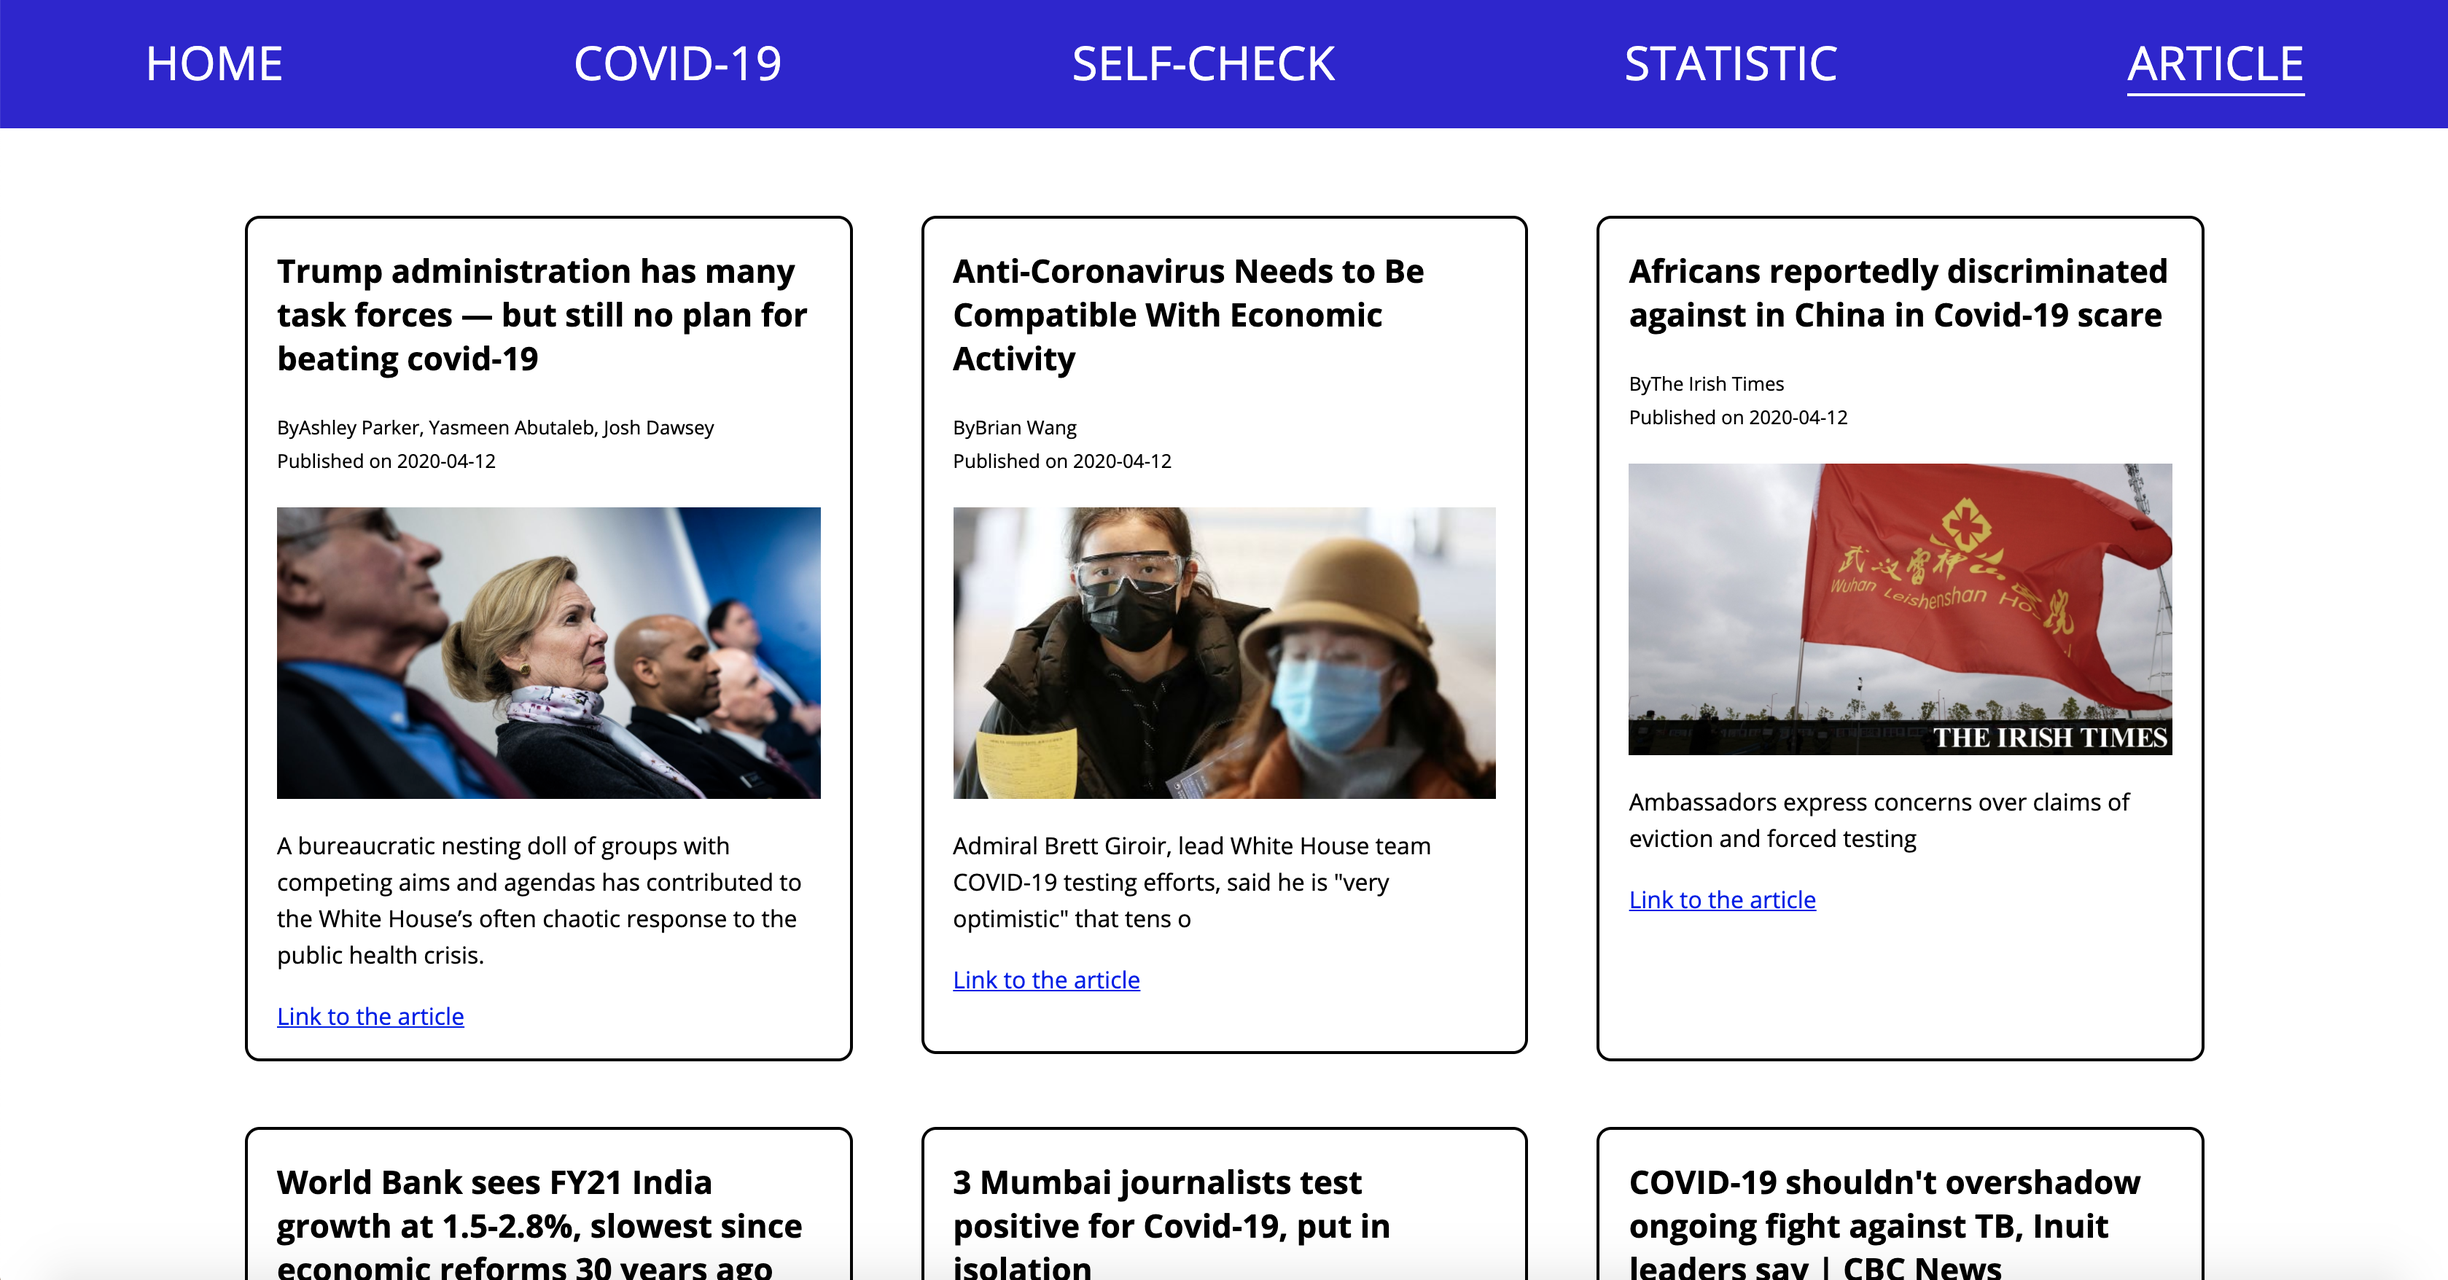
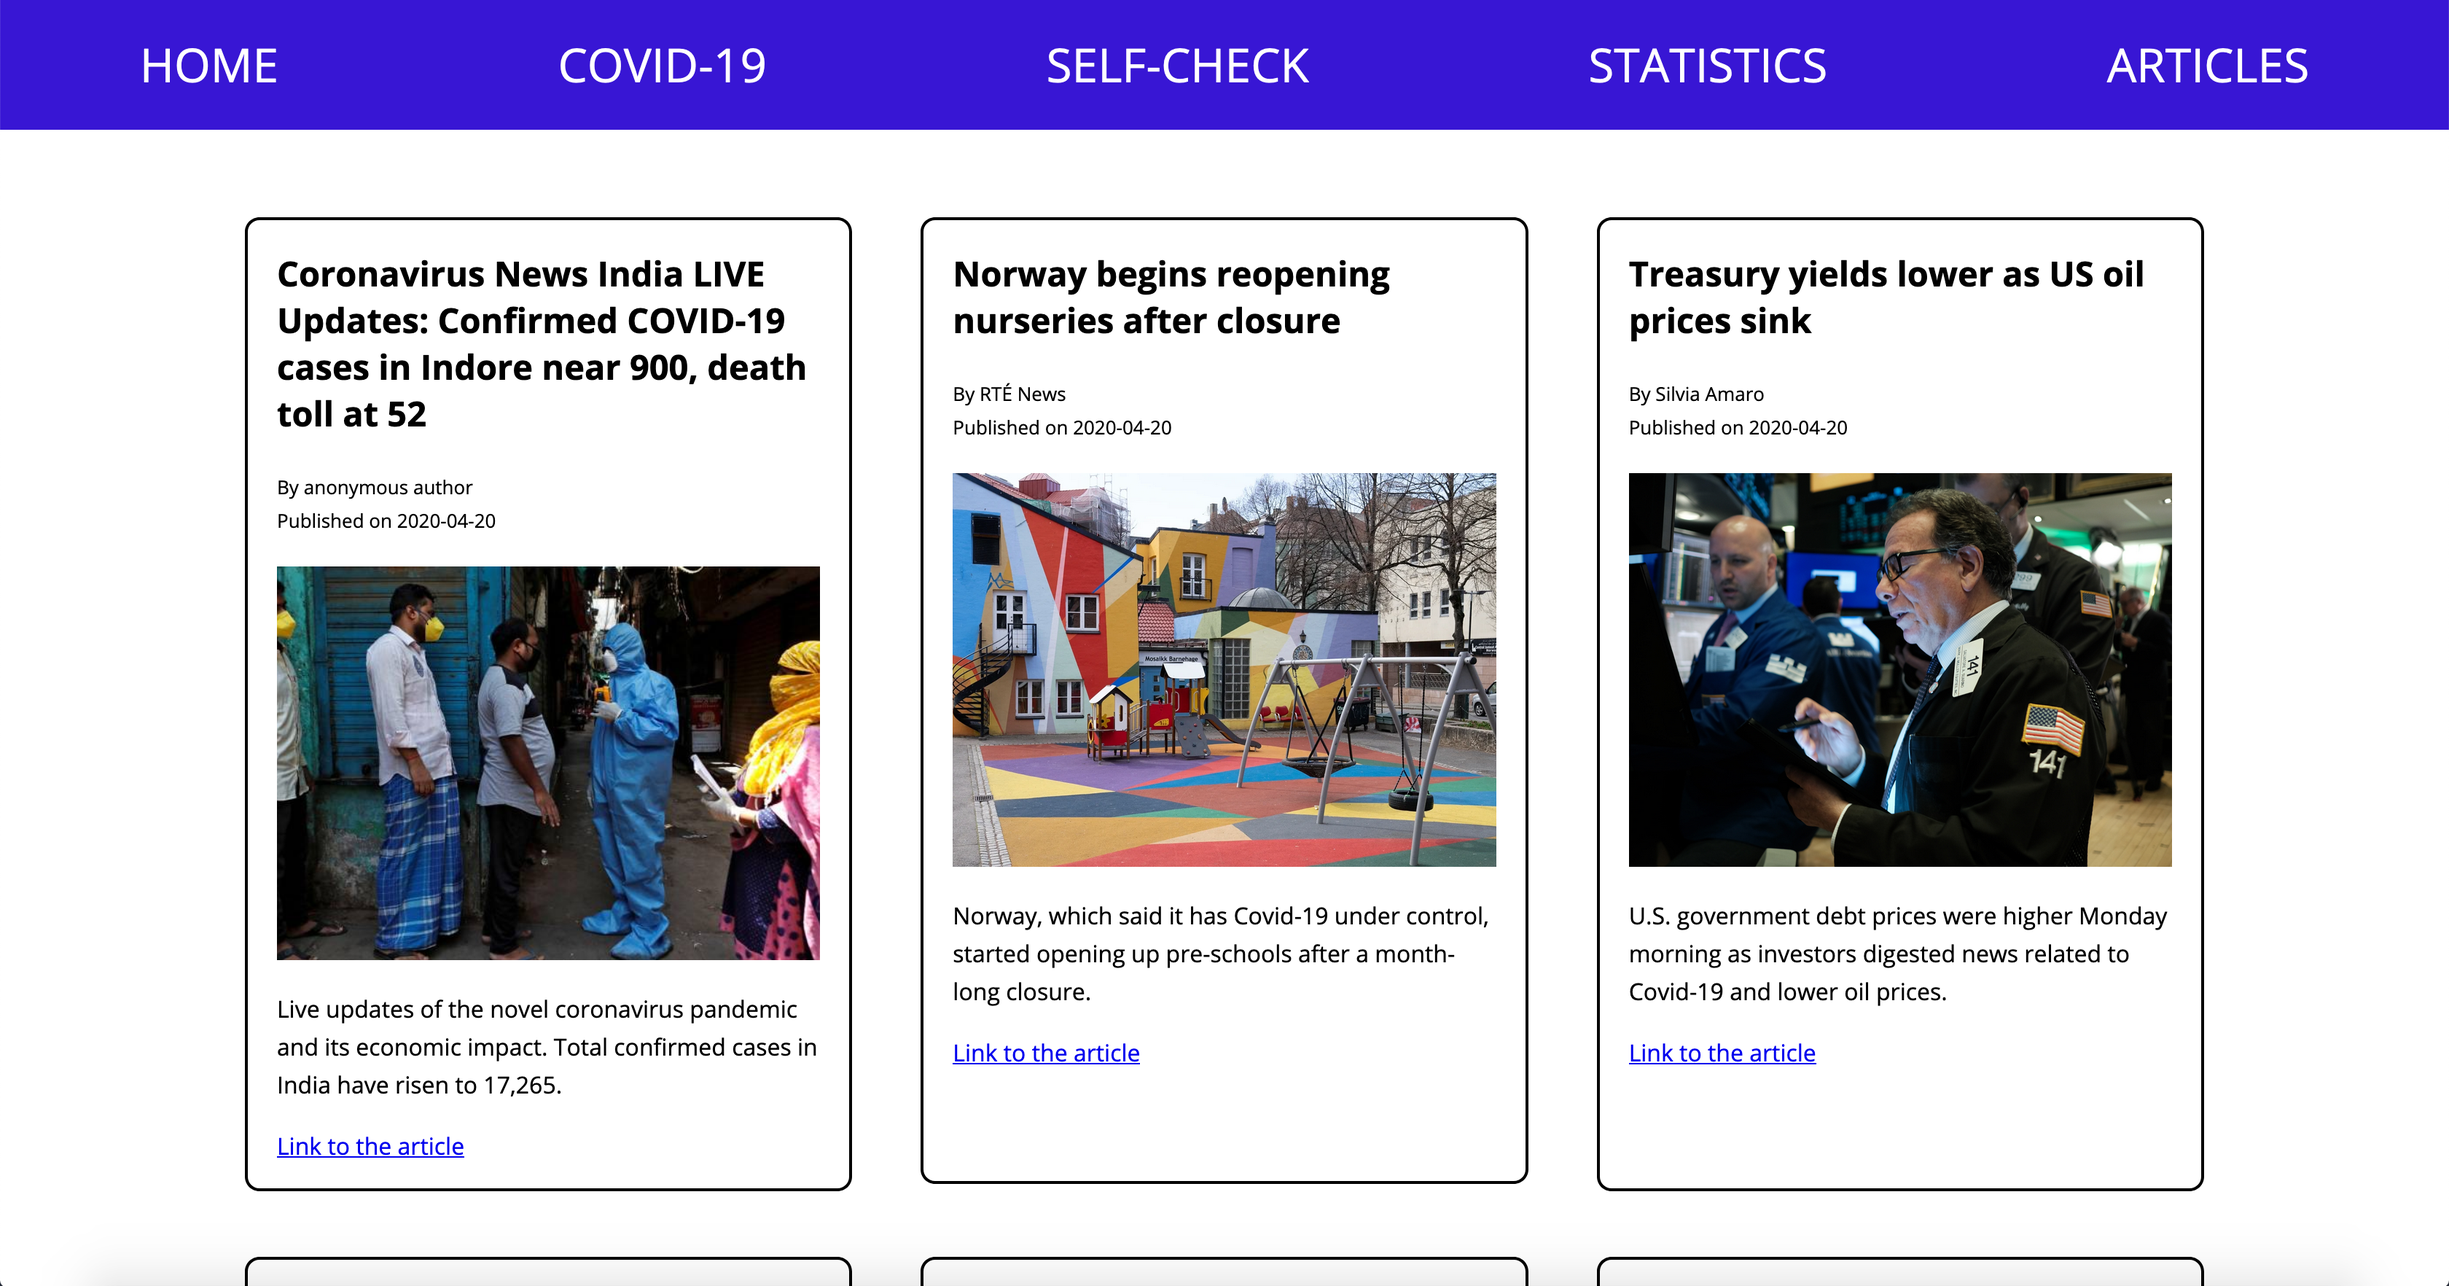
news article api updated and readme images changed

diff --git a/src/components/contents/Statistics.js b/src/components/contents/Statistics.js
@@ -1,4 +1,6 @@
 import React, { Component } from 'react';
+import Status from './Status';
+import SearchedCountry from './SearchedCountry';
 
 class Statistic extends Component {
     constructor() {
@@ -7,6 +9,7 @@ class Statistic extends Component {
         this.state = {
             searchedCountry: [],
         };
+
         this.searchInput = React.createRef();
     }
 
@@ -40,19 +43,10 @@ class Statistic extends Component {
     render() { 
         return ( 
             <div className='statistics'>
-                <h2 className='date'>As of {this.props.currentDate}</h2>
-                
-                <ul className='currentStatusList'>
-                    <li>Affected countries: {this.addCommas(this.props.currentStatistics.length)}</li>
-
-                    <li>Total cases: {this.addCommas(this.props.currentStatus.TotalConfirmed)}</li>
-
-                    <li>Total recovered: {this.addCommas(this.props.currentStatus.TotalRecovered)}</li>
-
-                    <li>Total deaths: {this.addCommas(this.props.currentStatus.TotalDeaths)}</li>
-                    
-                    <li>Death toll: {this.props.currentStatus.TotalConfirmed ? (100 / (this.props.currentStatus.TotalConfirmed / this.props.currentStatus.TotalDeaths)).toFixed(2) : 0}%</li>
-                </ul>
+                <Status 
+                    currentDate={this.props.currentDate}
+                    currentStatus={this.props.currentStatus}
+                />
 
                 <div className='searchFormContainer'>
                     <form onSubmit={this.searchCountry}>
@@ -76,6 +70,8 @@ class Statistic extends Component {
 
                             <th>Recovered</th>
 
+                            <th>Recovery toll</th>
+
                             <th>Deaths</th>
 
                             <th>Death toll</th>
@@ -83,47 +79,9 @@ class Statistic extends Component {
                     </thead>
 
                     <tbody>
-                        {this.state.searchedCountry.map((country, i) => {
-                            return (
-                                <tr key={i}>
-                                    <td className='searchedCountry'>* {country.Country}</td>
-
-                                    <td className='totalCases'>
-                                        <span>
-                                            {this.addCommas(country.TotalConfirmed)}
-                                        </span>
-
-                                        {country.NewConfirmed > 0 
-                                        ?
-                                            <span>
-                                                <span className='arrow'></span>
-
-                                                {this.addCommas(country.NewConfirmed)}
-                                            </span>
-                                        :null}
-                                    </td>
-
-                                    <td>{this.addCommas(country.TotalRecovered)}</td>
-
-                                    <td className='totalDeaths'>
-                                        <span>
-                                            {this.addCommas(country.TotalDeaths)}
-                                        </span>
-                                        
-                                        {country.NewDeaths > 0 
-                                        ?
-                                            <span>
-                                                <span className='arrow'></span>
-
-                                                {this.addCommas(country.NewDeaths)}
-                                            </span>
-                                        :null}
-                                    </td>
-
-                                    <td>{(100 / (country.TotalConfirmed / country.TotalDeaths)).toFixed(2)}%</td>
-                                </tr>
-                            )
-                        })}
+                        <SearchedCountry 
+                            searchedCountry={this.state.searchedCountry}
+                        />
 
                         {this.props.currentStatistics.map((status, i) => {
                             return (
@@ -162,6 +120,15 @@ class Statistic extends Component {
                                         : null}
                                     </td>
 
+                                    <td>
+                                        {status.TotalRecovered > 0
+                                        ?
+                                        <span>
+                                            {(100 / (status.TotalConfirmed / status.TotalRecovered)).toFixed(2)}%
+                                        </span>
+                                        : 0}
+                                    </td>
+
                                     <td className='totalDeaths'>
                                         <span>
                                             {this.addCommas(status.TotalDeaths)}
@@ -176,10 +143,17 @@ class Statistic extends Component {
                                                 {this.addCommas(status.NewDeaths)}
                                             </span>
                                         </span>
-                                        :null}
+                                        : null}
                                     </td>
 
-                                    <td>{(100 / (status.TotalConfirmed / status.TotalDeaths)).toFixed(2)}%</td>
+                                    <td>
+                                        {status.TotalDeaths > 0
+                                        ? 
+                                        <span>
+                                            {(100 / (status.TotalConfirmed / status.TotalDeaths)).toFixed(2)}%
+                                        </span>
+                                        : 0}
+                                    </td>
                                 </tr>
                             )
                         })}

diff --git a/src/components/contents/SearchedCountry.js b/src/components/contents/SearchedCountry.js
@@ -1,0 +1,86 @@
+import React from 'react';
+
+const SearchedCountry = props => {
+    // To add commas to number
+    const addCommas = num => {
+        return `${typeof num === 'number' ? num.toString().replace(/\B(?=(\d{3})+(?!\d))/g, ',') : 0}`
+    }
+
+
+    return (
+        <React.Fragment>
+            {props.searchedCountry.map((country, i) => {
+                return (
+                    <tr key={i}>
+                        <td className='searchedCountry'>* {country.Country}</td>
+
+                        <td className='totalCases'>
+                            <span>
+                                {addCommas(country.TotalConfirmed)}
+                            </span>
+
+                            {country.NewConfirmed > 0
+                                ?
+                                <span>
+                                    <span className='arrow'></span>
+
+                                    {addCommas(country.NewConfirmed)}
+                                </span>
+                                : null}
+                        </td>
+
+                        <td className='totalRecovered'>
+                            <span>
+                                {addCommas(country.TotalRecovered)}
+                            </span>
+
+                            {country.NewRecovered > 0
+                                ?
+                                <span>
+                                    <span className='arrow'></span>
+
+                                    {addCommas(country.NewRecovered)}
+                                </span>
+                                : null}
+                        </td>
+
+                        <td>
+                            {country.TotalRecovered > 0
+                                ?
+                                <span>
+                                    {(100 / (country.TotalConfirmed / country.TotalRecovered)).toFixed(2)}%
+                                        </span>
+                                : '0%'}
+                        </td>
+
+                        <td className='totalDeaths'>
+                            <span>
+                                {addCommas(country.TotalDeaths)}
+                            </span>
+
+                            {country.NewDeaths > 0
+                                ?
+                                <span>
+                                    <span className='arrow'></span>
+
+                                    {addCommas(country.NewDeaths)}
+                                </span>
+                                : null}
+                        </td>
+
+                        <td>
+                            {country.TotalDeaths > 0
+                                ?
+                                <span>
+                                    {(100 / (country.TotalConfirmed / country.TotalDeaths)).toFixed(2)}%
+                                        </span>
+                                : '0%'}
+                        </td>
+                    </tr>
+                )
+            })}
+        </React.Fragment>
+    )
+}
+
+export default SearchedCountry;

diff --git a/src/components/contents/Status.js b/src/components/contents/Status.js
@@ -1,0 +1,34 @@
+import React from 'react';
+
+const Status = props => {
+    // To add commas to number
+    const addCommas = num => {
+        return `${typeof num === 'number' ? num.toString().replace(/\B(?=(\d{3})+(?!\d))/g, ',') : 0}`
+    }
+
+    return (
+        <div>
+            <h2 className='date'>As of {props.currentDate}</h2>
+
+            <ul className='currentStatusList'>
+                <li>Total cases: {addCommas(props.currentStatus.TotalConfirmed)}</li>
+
+                <li>Total recovered: {addCommas(props.currentStatus.TotalRecovered)}</li>
+
+                <li>Recovery rate: {props.currentStatus.TotalRecovered > 0
+                    ?
+                    <span>
+                        {(100 / (props.currentStatus.TotalConfirmed / props.currentStatus.TotalRecovered)).toFixed(2)}%
+                        </span>
+                    : 0}
+                </li>
+
+                <li>Total deaths: {addCommas(props.currentStatus.TotalDeaths)}</li>
+
+                <li>Death rate: {props.currentStatus.TotalConfirmed ? (100 / (props.currentStatus.TotalConfirmed / props.currentStatus.TotalDeaths)).toFixed(2) : 0}%</li>
+            </ul>
+        </div>
+    )
+}
+
+export default Status;

diff --git a/src/components/Header.js b/src/components/Header.js
@@ -1,30 +1,15 @@
 import React from 'react';
+import Status from './contents/Status';
 
 const Header = props => {
-    
-    // To add commas to number
-    const addCommas = num => {
-        return `${typeof num === 'number' ? num.toString().replace(/\B(?=(\d{3})+(?!\d))/g, ',') : 0}`
-    }
-
-
     return ( 
         <header>
             <h1>SAVE THE ONE YOU LOVE</h1>
 
-            <h2 className='date'>As of {props.currentDate}</h2>
-
-            <ul className='currentStatusList'>
-                <li>Affected countries: {addCommas(props.currentStatistics.length)}</li>
-
-                <li>Total cases: {addCommas(props.currentStatus.TotalConfirmed)}</li>
-
-                <li>Total recovered: {addCommas(props.currentStatus.TotalRecovered)}</li>
-                
-                <li>Total deaths: {addCommas(props.currentStatus.TotalDeaths)}</li>
-
-                <li>Death toll: {props.currentStatus.TotalConfirmed ? (100 / (props.currentStatus.TotalConfirmed / props.currentStatus.TotalDeaths)).toFixed(2) : 0}%</li>
-            </ul>
+            <Status 
+                currentDate={props.currentDate}
+                currentStatus={props.currentStatus}
+            />
         </header>
     );
 }

diff --git a/src/App.js b/src/App.js
@@ -24,11 +24,14 @@ class App extends Component {
   // To get the api data for current status here and pass them to main and header
   componentDidMount() {
     axios({
-      url: `https://api.covid19api.com/summary`,
+      url: 'https://api.covid19api.com/summary',
       method: "GET",
     }).then(res => {
+      // To filter only countries that have at least 1 infected person
+      const affectedCountries = res.data.Countries.filter(country => country.TotalConfirmed > 0);
+
       // To sort in the order of the most vulnerable countries 
-      const seriousness = res.data.Countries.sort((a, b) => a.TotalConfirmed > b.TotalConfirmed ? -1 : 1);
+      const seriousness = affectedCountries.sort((a, b) => a.TotalConfirmed > b.TotalConfirmed ? - 1 : 1);
 
       const currentDate = res.data.Date.slice(0, 10);
 
@@ -50,7 +53,6 @@ class App extends Component {
           <Header 
             currentDate={this.state.currentDate} 
             currentStatus={this.state.currentStatus}
-            currentStatistics={this.state.currentStatistics}
           />
         </Route>
 

diff --git a/src/components/contents/Articles.js b/src/components/contents/Articles.js
@@ -19,9 +19,8 @@ class Article extends Component {
             params: {
                 language: 'en',
                 q: 'COVID',
-                from: '2020-03-16',
                 sortBy: 'publishedAt',
-                apiKey: '0741cdf2415e4f44a92f80f69c904834',
+                apiKey: '7a50435871b44203ac210b60d2fdae74',
                 pageSize: '50',
                 page: '1'
             }
@@ -41,8 +40,8 @@ class Article extends Component {
                             <li key={i}>
                                 <h3>{article.title}</h3>
 
-                                <p>By 
-                                    {! article.author || article.author.includes('http') 
+                                <p>
+                                    By {! article.author || article.author.includes('http') 
                                         ? 'anonymous author' 
                                         : article.author}
                                 </p>

diff --git a/src/styles/style.css b/src/styles/style.css
@@ -1402,7 +1402,8 @@ header .currentStatusList li {
   }
 }
 @media (max-width: 640px) {
-  .statistics table tr th:nth-child(5) {
+  .statistics table tr th:nth-child(4),
+.statistics table tr th:nth-child(6) {
     display: none;
   }
 }
@@ -1426,7 +1427,8 @@ header .currentStatusList li {
   }
 }
 @media (max-width: 640px) {
-  .statistics table tr td:nth-child(5) {
+  .statistics table tr td:nth-child(4),
+.statistics table tr td:nth-child(6) {
     display: none;
   }
 }

diff --git a/src/partials/_statistics.scss b/src/partials/_statistics.scss
@@ -130,7 +130,8 @@
                 }
             }
 
-            th:nth-child(5) {
+            th:nth-child(4),
+            th:nth-child(6) {
                 @include mq640 {
                     display: none;
                 }
@@ -153,7 +154,8 @@
                 }
             }
 
-            td:nth-child(5) {
+            td:nth-child(4),
+            td:nth-child(6) {
                 @include mq640 {
                 display: none;
                 }
